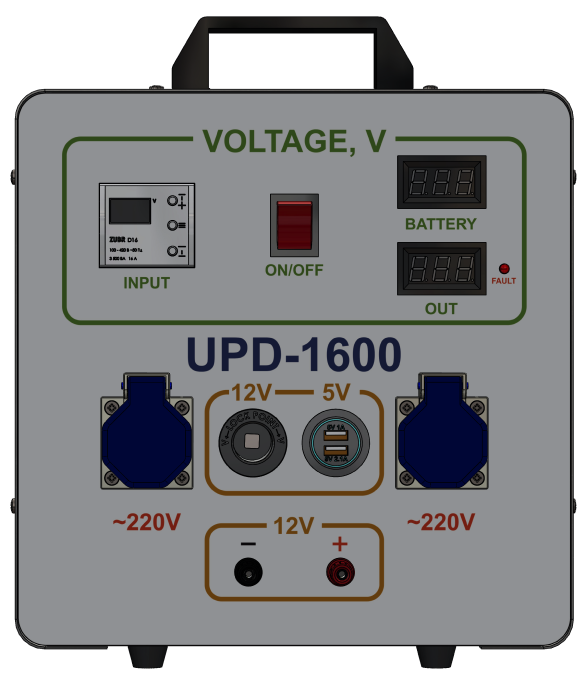
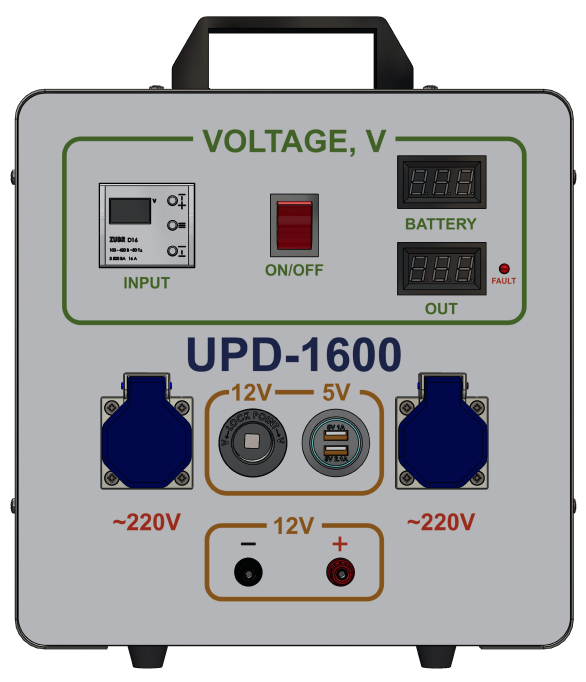
change hero upd

diff --git a/index.html b/index.html
@@ -87,9 +87,9 @@
                 </div>
                 <div class="hero__content">
                     <img loading="lazy"
-                        srcset="./public/upd-front.png 1x, ./public/upd-front@2x.png 2x, ./public/upd-front@3x.png 3x, ./public/upd-front@4x.png 4x"
+                        
                         class="hero__img-desktop"
-                        src="./public/upd-front@.png" 
+                        src="./public/updfront-min.png" 
                         alt="upd" />
                     <div class="hero__content-title">
                         <p class="hero__titletop">Пристрій безперебійного живлення</p>
